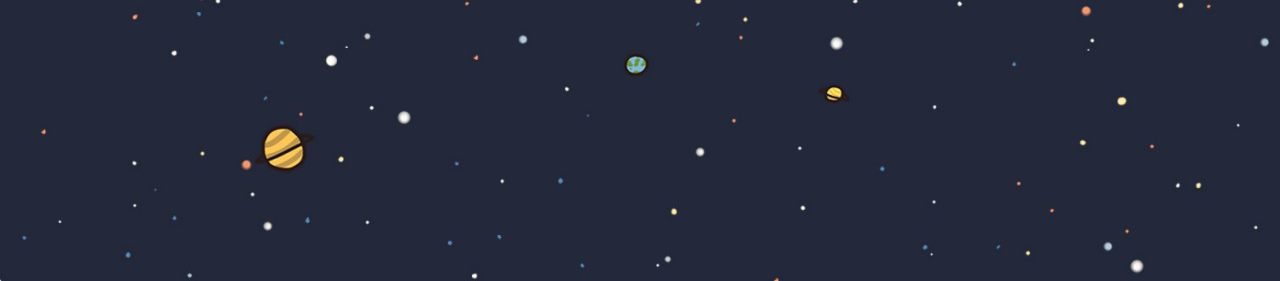
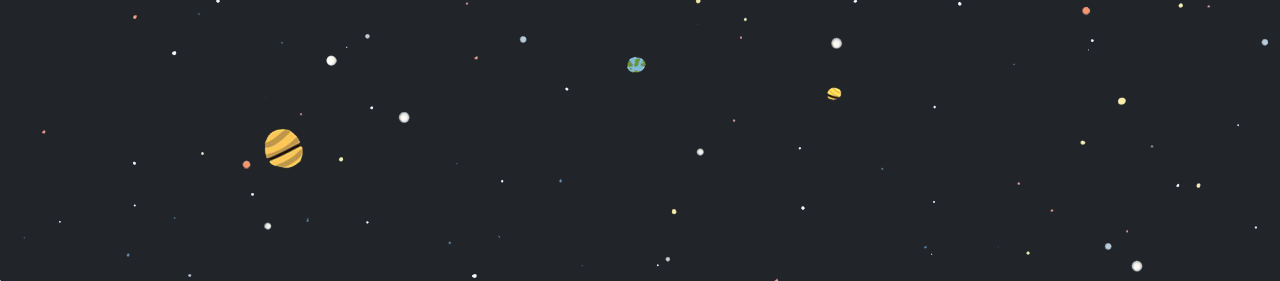
更新页面元素

diff --git a/index.html b/index.html
@@ -37,12 +37,11 @@
             </div>
             <div class="profile-details">
                 <span style="display: block; color:#c5c5c5;font-family: consolas; margin-bottom: 8px;">
-                    iheng@github.io $><span class="shake">_</span>
+                    $><span class="shake">_</span>iheng@github.io 
                 </span>
                 <span class="profile-section">
                     <span id="smaller-info" style="color :#c5c5c5">
                         <i class="fas fa-code"></i>Developer for Java
-                        <i class="fab fa-java"></i>
                     </span>
                 </span>
                 <span class="profile-section">
@@ -78,7 +77,10 @@
                     </div>
                 </span>
                 <span class="profile-section">
-                    <i class="fa fa-quote-left"></i>On My Way
+                    <i class="fa fa-quote-left"></i>
+                        <span style="font-size: 20px;">
+                            I'll be on my way. Go for IT.
+                        </span>
                     <i class="fa fa-quote-right"></i>
                 </span>
         </header>

diff --git a/css/index_n.css b/css/index_n.css
@@ -1,5 +1,5 @@
 body{
-    background-image: url("../img/bg3.png");
+    background-color: #21252a;
 }
 
 .content{
@@ -7,7 +7,6 @@ body{
     min-width: 1000px;
     margin-left: 15%;
     margin-right: 10%;
-    background-color: rgba(0,0,0,0.8);
 }
 
 header{
@@ -15,6 +14,7 @@ header{
     padding: 25px 10px 20px 10px;
     background-image: url("../img/header-bg.png");
     background-position: center;
+    background-repeat: no-repeat;
 }
 
 .profile-details{
@@ -27,9 +27,9 @@ header{
 
 .portrait {
     margin: 0 auto;
-    width: 60px;
-    height: 60px;
-    border-radius: 30px;
+    width: 80px;
+    height: 80px;
+    border-radius: 40px;
     overflow: hidden;
 }
 
@@ -130,8 +130,9 @@ footer{
     text-align: center;
     font-family: 'Segoe UI';
     font-size: 10px;
+    color: #c4c4c4;
     float: left;
-    background-color: rgba(0,0,0,0.2);
+    background-image: url(../img/frontpage.png);
 }
 
 .compatible-browser{
